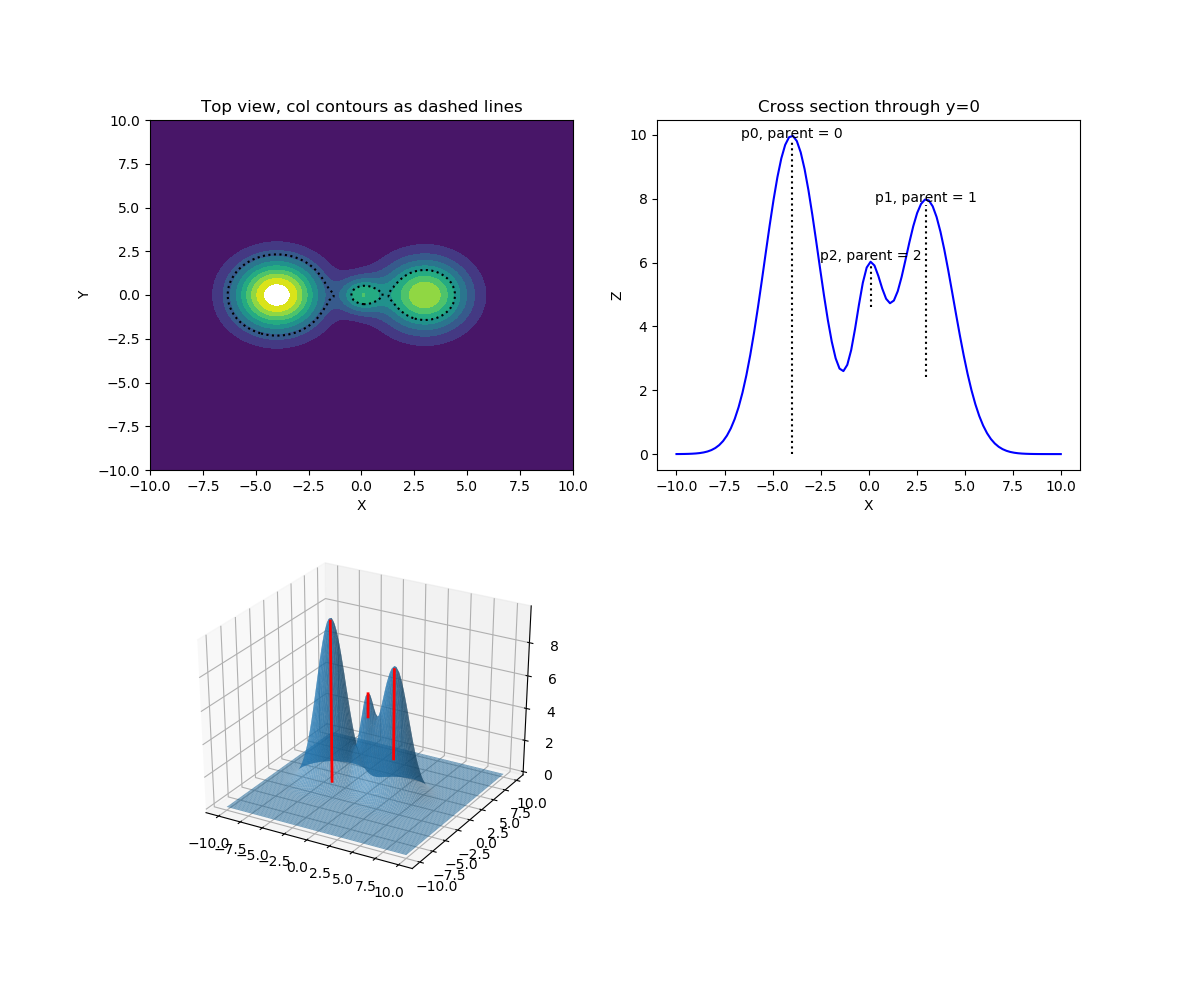
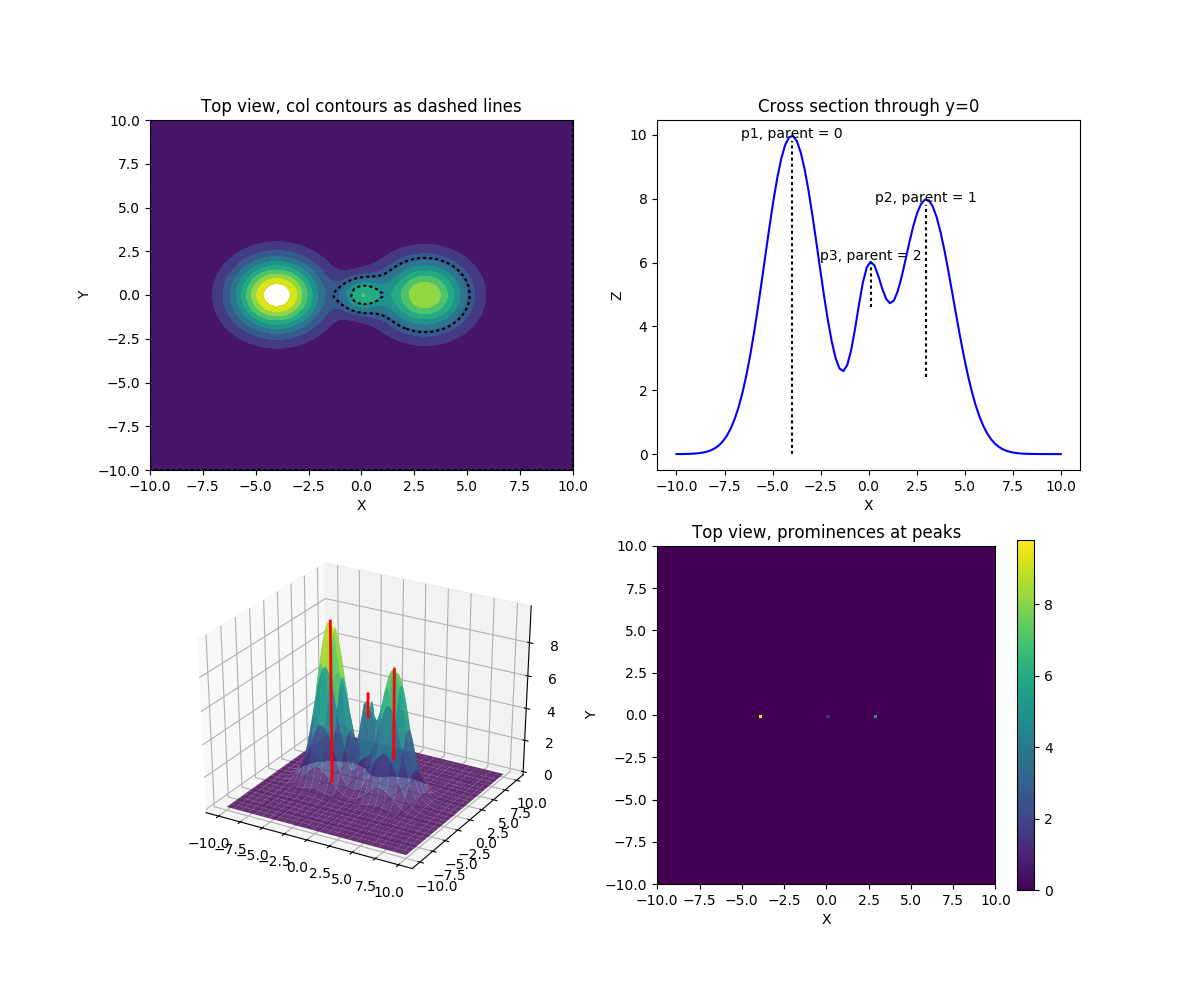
fix col level issue, output maps
col level was computed incorrectly previously, need to keep on adding
contours to the highest peak or new peaks.

also return maps of peak ids, peak prominences and parent ids,
indices of centers of peaks are found by linear interpolation.

remove peaks with only 1 contour level.

Don't recounting peak ids as the parent ids won't match.

add plot of prominence map to the demo graph

diff --git a/peak_prominence2d.py b/peak_prominence2d.py
@@ -25,9 +25,7 @@ import numpy as np
 from matplotlib.transforms import Bbox
 from matplotlib.path import Path
 import matplotlib.pyplot as plt
-
-
-
+from scipy.interpolate import interp1d
 
 
 
@@ -217,10 +215,14 @@ def getProminence(var,step,lats=None,lons=None,min_depth=None,
         return fails
 
     var=np.ma.masked_where(np.isnan(var),var).astype('float')
+    needslerpx=True
+    needslerpy=True
     if lats is None:
         lats=np.arange(var.shape[0])
+        needslerpy=False
     if lons is None:
         lons=np.arange(var.shape[1])
+        needslerpx=False
 
     if area_func==contourGeoArea:
         from mpl_toolkits.basemap import Basemap
@@ -376,6 +378,7 @@ def getProminence(var,step,lats=None,lons=None,min_depth=None,
                     npeak+=1
                     peaks[npeak]=[contjj,]
                     prominence[npeak]=levii
+                    parents[npeak]=0
 
                 elif len(match_list)==1:
                     peaks[match_list[0]].append(contjj)
@@ -406,6 +409,7 @@ def getProminence(var,step,lats=None,lons=None,min_depth=None,
                             if prominence[mm]==peaks[mm][0].level and mm!=max_idx:
                                 prominence[mm]=peaks[mm][0].level-levii
                                 parents[mm]=max_idx
+                        peaks[max_idx].append(contjj)
 
                     #---------------Filter by prominence---------------
                     if min_depth is not None and len(match_list)>1:
@@ -427,11 +431,18 @@ def getProminence(var,step,lats=None,lons=None,min_depth=None,
 
     #------------------Prepare output------------------
     result={}
+    result_map=np.zeros(var.shape)
+    parent_map=np.zeros(var.shape)-1
+    id_map=np.zeros(var.shape)
 
     keys=peaks.keys()
     for ii in range(len(peaks)):
         kk=keys[ii]
         vv=peaks[kk]
+        #--------------Remove singleton peaks--------------
+        if len(vv)<2:
+            continue
+        
         lev_range=[cii.level for cii in vv]
         prokk=prominence[kk]
 
@@ -441,7 +452,7 @@ def getProminence(var,step,lats=None,lons=None,min_depth=None,
         centerkk=np.mean(centerkk,axis=0)
 
         peakii={
-            'id'         : ii,
+            'id'         : kk,
             'height'  : np.max(lev_range),
             'col_level'  : np.min(lev_range),
             'prominence'  : prokk,
@@ -452,11 +463,30 @@ def getProminence(var,step,lats=None,lons=None,min_depth=None,
             'parent'     : parents[kk]
             }
 
-        result[ii]=peakii
+        result[kk]=peakii
+        # lerp1 to get center indices
+        if needslerpx:
+            fitx=interp1d(lons,np.arange(var.shape[1]))
+            xidx=fitx(centerkk[0])
+        else:
+            xidx=centerkk[0]
+
+        if needslerpy:
+            fity=interp1d(lats,np.arange(var.shape[0]))
+            yidx=fity(centerkk[1])
+        else:
+            yidx=centerkk[1]
+
+        xidx=np.around(xidx,0).astype('int')
+        yidx=np.around(yidx,0).astype('int')
+
+        id_map[yidx,xidx]=kk
+        result_map[yidx,xidx]=prokk
+        parent_map[yidx,xidx]=parents[kk]
 
     plt.close(fig)
 
-    return result
+    return result, id_map, result_map, parent_map
 
 
 
@@ -477,7 +507,7 @@ if __name__=='__main__':
 
     step=0.2
     zmax=slab.max()
-    peaks=getProminence(slab,step,lats=yy,lons=xx,min_area=None,
+    peaks,idmap,promap,parentmap=getProminence(slab,step,lats=yy,lons=xx,min_area=None,
             include_edge=True)
 
     #-------------------Plot------------------------
@@ -514,7 +544,7 @@ if __name__=='__main__':
                 verticalalignment='bottom')
 
     ax3=figure.add_subplot(2,2,3,projection='3d')
-    ax3.plot_surface(XX,YY,slab,rstride=1,cstride=1,linewidth=0.5,alpha=0.6)
+    ax3.plot_surface(XX,YY,slab,rstride=4,cstride=4,cmap='viridis',alpha=0.8)
 
     for kk,vv in peaks.items():
         xii,yii=vv['center']
@@ -522,6 +552,14 @@ if __name__=='__main__':
         pro=vv['prominence']
         z1ii=z2ii-pro
         ax3.plot([xii,xii],[yii,yii],[z1ii,z2ii], color='r', linewidth=2)
+
+    ax4=figure.add_subplot(2,2,4)
+    cs=ax4.imshow(promap,origin='lower',interpolation='nearest',
+            extent=[-10,10,-10,10])
+    ax4.set_xlabel('X')
+    ax4.set_ylabel('Y')
+    ax4.set_title('Top view, prominences at peaks')
+    plt.colorbar(cs,ax=ax4)
 
     plt.show(block=False)
 
